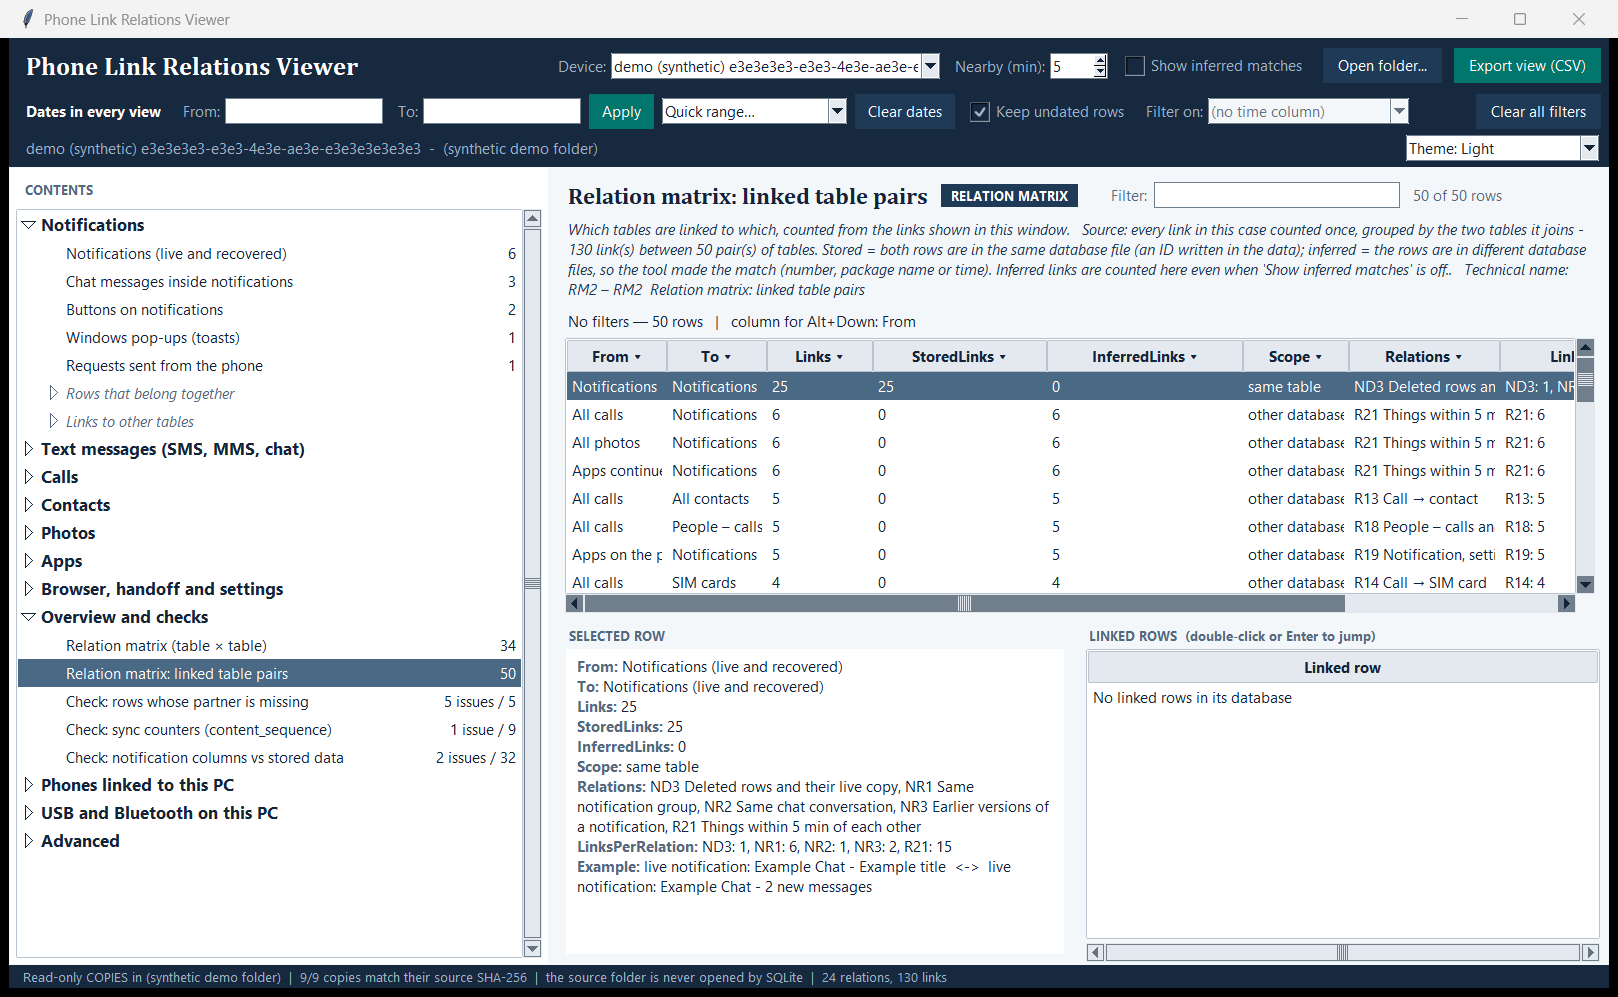
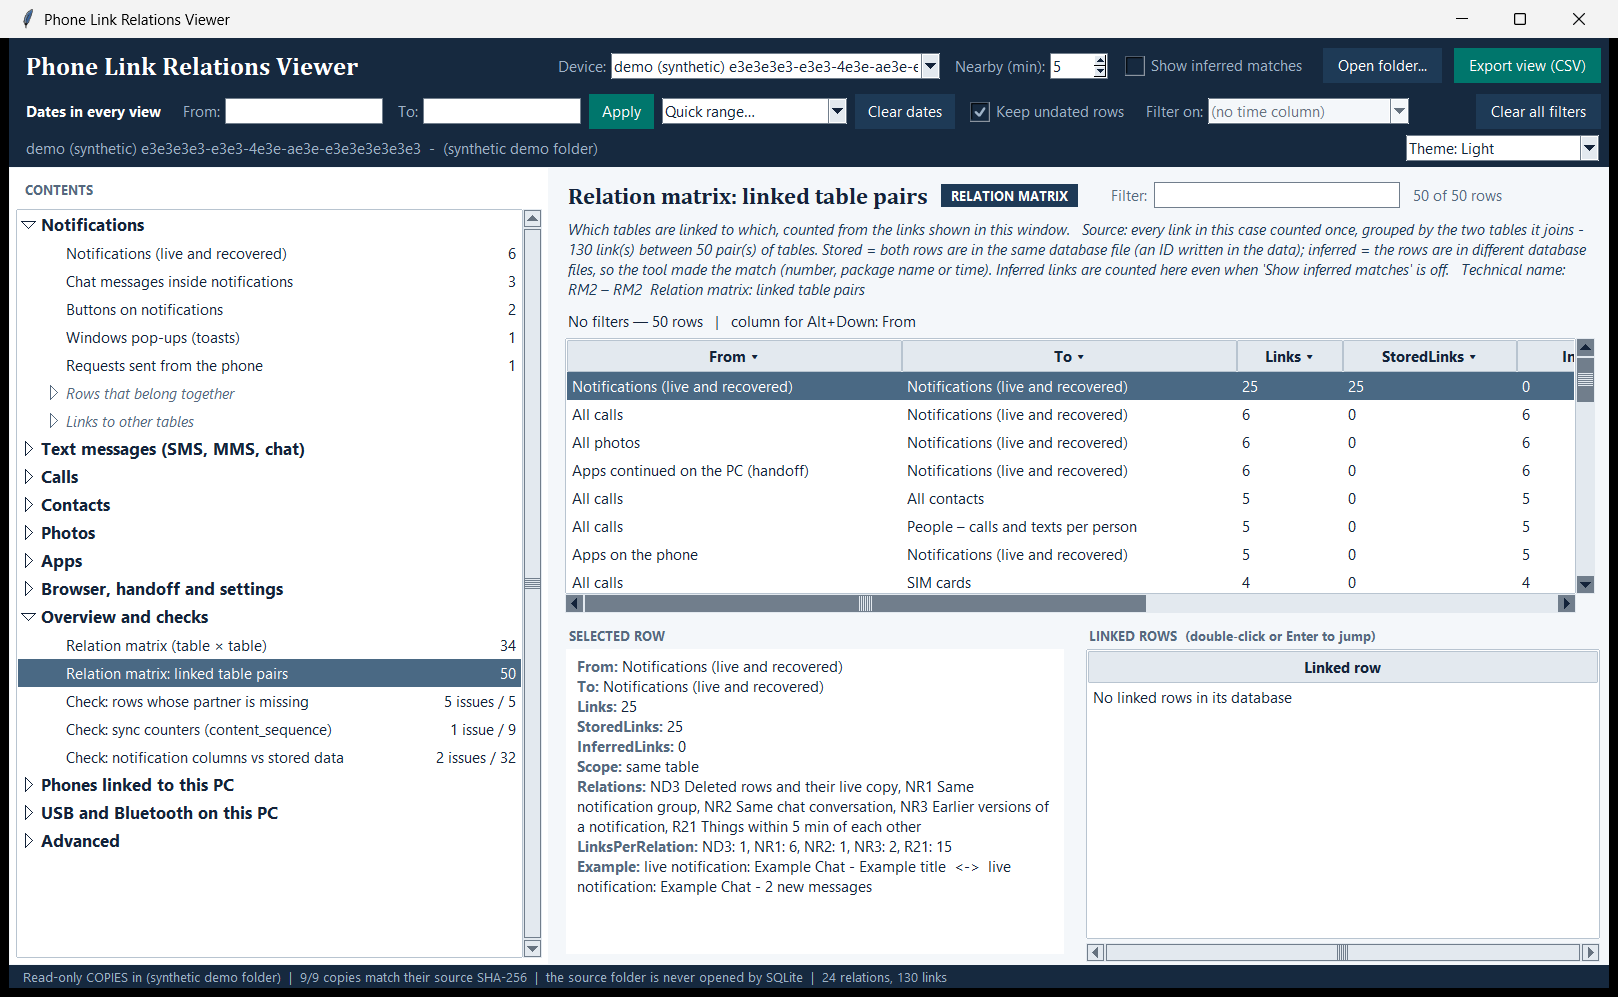
2.2.1: relation matrix names shown in full; no double full stop
Table, From and To columns in the matrix views are sized to the longest table name (capped at 380 px) instead of the heading. Two tests added; screenshot 11 regenerated.

diff --git a/viewer/plmapview.py b/viewer/plmapview.py
@@ -190,6 +190,7 @@ DB_GROUP = {"notifications.db": "notifications", "phone.db": "messages", "callin
             "contacts.db": "contacts", "photos.db": "photos", "phoneapps.db": "apps",
             "continuity.db": "browser", "settings.db": "browser", "deviceData.db": "browser"}
 KIND_SUB = {"in-table": "together", "in-db": "links", "cross": "inferred"}
+MATRIX_NAME_COLS = ("Table", "From", "To")     # relation-matrix columns that hold table names
 BADGE = {"table": "DATA", "in-table": "ROWS THAT BELONG TOGETHER", "in-db": "LINKED TABLES",
          "cross": "INFERRED MATCH", "check": "CHECK", "map": "SQLECMD MAP", "provenance": "HASHES",
          "pc": "THIS PC", "conn": "THIS PC", "matrix": "RELATION MATRIX"}
@@ -1104,6 +1105,8 @@ class Viewer(tk.Tk):
             width = self.px(260 if c in WIDE else max(80, min(220, 9 * len(c) + 40)))
             if self.col_type(c, vid) == F.DATE:        # the seconds were cut off at about 112 px
                 width = max(width, self.time_col_width())
+            if v.kind == "matrix" and c in MATRIX_NAME_COLS:     # table names: fit the longest, within reason
+                width = max(width, self.name_col_width([r.get(c) for r in v.rows]))
             self.table.column(c, width=width, anchor="w", stretch=False)
         if select_index is not None and self.filter_var.get():
             self._quiet = True
@@ -1265,6 +1268,12 @@ class Viewer(tk.Tk):
     def time_col_width(self):
         """Pixels a time column needs for a whole 'YYYY-MM-DD HH:MM:SS' in the table font, plus the cell padding."""
         return tkfont.nametofont("PL.body", root=self).measure("0000-00-00 00:00:00") + self.px(16)
+
+    def name_col_width(self, values):
+        """Width that shows the longest of these names in full, but never more than 380 px (scaled)."""
+        font = tkfont.nametofont("PL.body", root=self)
+        longest = max([font.measure(str(x)) for x in values if x] or [0])
+        return min(self.px(380), longest + self.px(16))
 
     def _fit_rangebar(self, width):
         """The dates row's last groups (quick range and Clear dates; Keep undated rows, Filter on and the date

diff --git a/viewer/test_plmapview.py b/viewer/test_plmapview.py
@@ -2863,6 +2863,21 @@ class RelationMatrixViewTest(unittest.TestCase):
         self.assertIn("Phone pairings", tables, "links added after the device build are counted too")
         self.assertIn("USB devices", tables)
 
+    def test_matrix_table_names_are_not_cut_off(self):
+        app = self.app_on_demo()
+        font = V.tkfont.nametofont("PL.body", root=app)
+        for vid, col in (("RM1", "Table"), ("RM2", "From"), ("RM2", "To")):
+            app.show(vid)
+            longest = max(font.measure(r[col]) for r in app.g.views[vid].rows)
+            need = min(app.px(380), longest + app.px(16))
+            self.assertGreaterEqual(int(app.table.column(col, "width")), need, (vid, col))
+
+    def test_matrix_descriptions_have_no_double_full_stop(self):
+        app = self.app_on_demo()
+        for vid in ("RM1", "RM2"):
+            app.show(vid)
+            self.assertNotIn("..", app.basis_lbl.cget("text"), vid)
+
     def test_matrix_uses_the_contents_names_and_sits_under_overview(self):
         app = self.app_on_demo()
         names = {V.nav_place(v, app.built_min)[2] for v in app.g.views.values()}

diff --git a/viewer/plrelate.py b/viewer/plrelate.py
@@ -1212,7 +1212,7 @@ def add_matrix(g, name_of=None):
                     "read a row across: the number of links between that table and the table named in each column "
                     "(blank = none; the grid is symmetric; the diagonal is links between rows of the same table). "
                     "'N inferred' = links the tool made across database files. AllLinks = every link that touches "
-                    "the table. Details of each cell: the 'linked table pairs' view.",
+                    "the table. Details of each cell: the 'linked table pairs' view",
                     ["Table"] + names + ["AllLinks"], grid))
     return g
 

diff --git a/CHANGELOG.md b/CHANGELOG.md
@@ -4,6 +4,13 @@ All notable changes to this project are listed here. The format follows [Keep a 
 
 ## [Unreleased]
 
+## [2.2.1] - 2026-11-18
+
+### Fixed
+
+- The relation matrix's table-name columns (Table, From, To) are wide enough to show the names in full; they were sized from the heading and cut names short.
+- The table × table view's description no longer ends with a double full stop.
+
 ## [2.2.0] - 2026-11-17
 
 Found by validating the published 2.1.2 from a fresh clone and feeding it damaged and hostile input.
@@ -118,7 +125,8 @@ First release.
 - **Phone connections (this PC):** USB, MTP, Bluetooth and Bluetooth LE devices, AutoPlay, first driver install and connection events from the live registry and logs, read-only.
 - README with synthetic screenshots and a table of where Windows stores phone connection traces; a plain-English Contents list.
 
-[Unreleased]: https://github.com/KotlaAvinash/phone-link-forensics/compare/v2.2.0...HEAD
+[Unreleased]: https://github.com/KotlaAvinash/phone-link-forensics/compare/v2.2.1...HEAD
+[2.2.1]: https://github.com/KotlaAvinash/phone-link-forensics/compare/v2.2.0...v2.2.1
 [2.2.0]: https://github.com/KotlaAvinash/phone-link-forensics/compare/v2.1.2...v2.2.0
 [2.1.2]: https://github.com/KotlaAvinash/phone-link-forensics/compare/v2.1.1...v2.1.2
 [2.1.1]: https://github.com/KotlaAvinash/phone-link-forensics/compare/v2.1.0...v2.1.1
